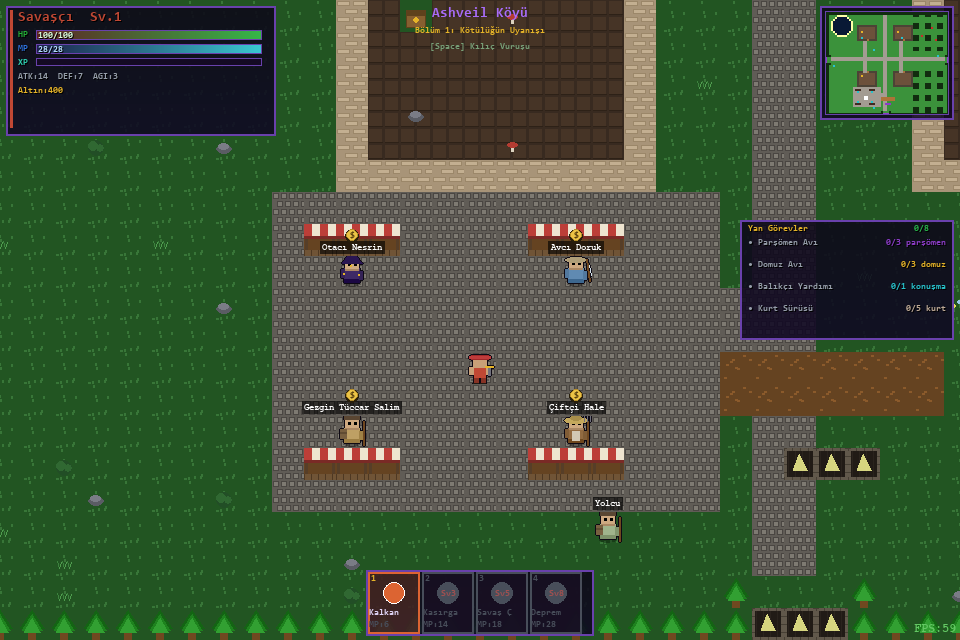
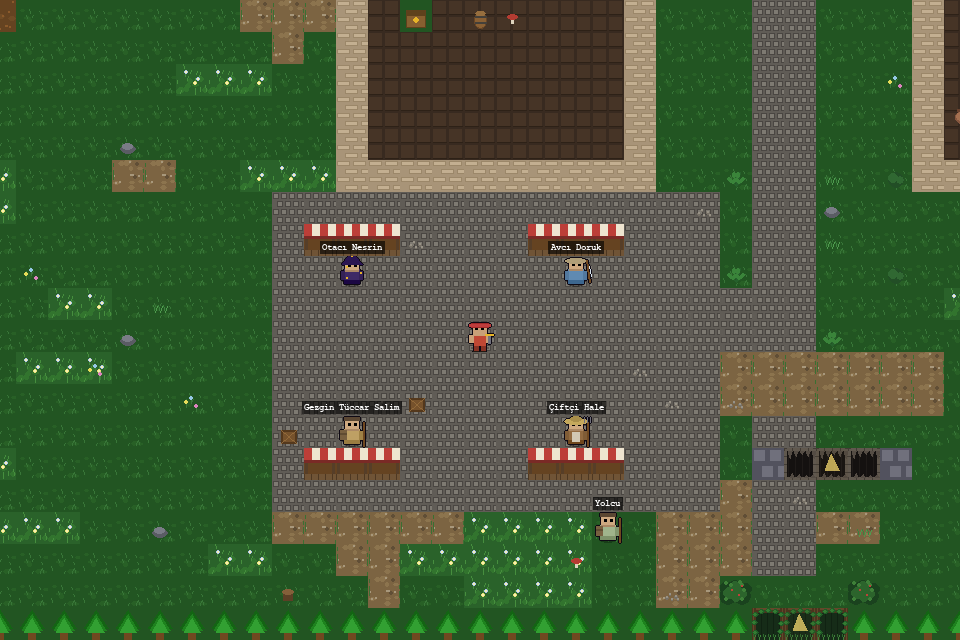
v6.2: README, belge gorselleri ve derleme betikleri guncellendi
README.md bastan yazildi: avlanma/malzeme/yukseltme bolumu, boss
sahneleri, haritalar ve karolar bolumu, olculen onceki/sonraki sayilar.
README.txt'e avlanma, yukseltme ve bes ana boss bolumleri eklendi.

Belge gorselleri: boss sahnesinin iki kademesi, yukseltme tezgahi,
gecit agzi levhasi, kayalik gecit ve bataklik eklendi; pazar,
Koz Vadisi ve baslik ekrani yeni karolarla yenilendi.

build_linux_release.sh hala 5.0 uretiyordu. Iki derleme betigi de
surumu artik pixel_rpg.py'den okuyor; elle yazilmiyor.

GELISTIRME_PLANI.md: v6.2 turu olculerle kayda gecti, karar kaydina
yedi yeni satir eklendi.

diff --git a/tests/test_economy.py b/tests/test_economy.py
@@ -393,6 +393,67 @@ class TestYeniTurler(unittest.TestCase):
                 self.assertLess(abs(v), 15)
 
 
+class TestDukkanTusAkisi(unittest.TestCase):
+    """Gercek tus yolundan: TAB uc sekme arasinda donmeli.
+
+    Birim testler _shop_upgrade()'i dogrudan cagiriyor; bu test oyunu
+    gercekten surerek sekme dolasimini ve E tusunu deniyor.
+    """
+
+    def test_tab_uc_sekme_arasinda_donuyor(self):
+        from harness import Harness
+        h = Harness(MOD, shot_prefix="ekonomi_")
+        goruldu = []
+
+        def dukkani_ac(g):
+            g.player.stats.gold = 900
+            g.player.stats.equipment["weapon"] = "iron_sword"
+            g.player.inventory = ["iron_ore"] * 4
+            g._open_shop(type("N", (), {"name": "npc.demirci_boran"})())
+
+        def kaydet(g):
+            goruldu.append(g.shop_tab)
+
+        script = h.intro() + [
+            h.do(dukkani_ac), h.wait(3), h.do(kaydet),
+            h.key(pygame.K_TAB, 3), h.do(kaydet),
+            h.key(pygame.K_TAB, 3), h.do(kaydet),
+            h.key(pygame.K_TAB, 3), h.do(kaydet),
+            h.wait(2),
+        ]
+        h.run(script)
+        self.assertEqual(goruldu, [0, 1, 2, 0],
+                         "TAB sekmeleri dolasmiyor: %s" % goruldu)
+        self.assertEqual(h.errors, [], "hata: %s" % h.errors)
+
+    def test_e_tusu_yukseltiyor(self):
+        from harness import Harness
+        h = Harness(MOD, shot_prefix="ekonomi2_")
+        sonuc = {}
+
+        def hazirla(g):
+            g.player.stats.gold = 900
+            g.player.stats.equipment["weapon"] = "iron_sword"
+            g.player.inventory = ["iron_ore"] * 4
+            g._open_shop(type("N", (), {"name": "npc.demirci_boran"})())
+            g.shop_tab = 2
+            g.shop_sel = 0
+
+        def oku(g):
+            sonuc["kademe"] = g.player.stats.upgrades.get("iron_sword", 0)
+            sonuc["altin"] = g.player.stats.gold
+
+        script = h.intro() + [
+            h.do(hazirla), h.wait(3),
+            h.key(pygame.K_e, 4),
+            h.do(oku), h.wait(2),
+        ]
+        h.run(script)
+        self.assertEqual(sonuc.get("kademe"), 1, "E tusu yukseltmedi")
+        self.assertEqual(sonuc.get("altin"), 900 - MOD.UPGRADE_COST[0][0])
+        self.assertEqual(h.errors, [], "hata: %s" % h.errors)
+
+
 class TestYeniEsyaCevirileri(unittest.TestCase):
     def test_her_esyanin_adi_bes_dilde_var(self):
         eski = MOD.CFG.data.get("language", "TR")

diff --git a/pixel_rpg.py b/pixel_rpg.py
@@ -1,6 +1,6 @@
 #!/usr/bin/env python3
 """
-KARANLIK TAC'IN LANETI  v6.1  ─  2D Pixel RPG
+KARANLIK TAC'IN LANETI  v6.2  ─  2D Pixel RPG
 pip install pygame  |  python pixel_rpg.py
 
 Kontroller:
@@ -28,7 +28,7 @@ except Exception:
 SW, SH = 960, 640
 TILE    = 32
 FPS     = 60
-VERSION = "6.1"
+VERSION = "6.2"
 TITLE   = "Karanlik Tac'in Laneti"   # ASCII: pencere basligi ve dosya adlari icin
 
 # ─── Dizinler ────────────────────────────────────────────────────

diff --git a/GELISTIRME_PLANI.md b/GELISTIRME_PLANI.md
@@ -819,6 +819,147 @@ Toplam **292 test**.
 | 2026-10-01 | — | **v6.0 yayını:** README, kurulum betikleri, depo temizliği (1977 → 59 dosya), GitHub Release | 247 test |
 | 2026-10-01 | — | **Parşömen görevi bitirilemiyordu:** üç parşömen de dünyada yoktu. Düşman fark etme mesafeleri tür bazına alındı | 12 yeni test; toplam 259 test |
 | 2026-10-01 | — | **v6.1:** "Sör" yazım hatası, beş zorluk seviyesi, oyun içi amblem + uygulama ikonu, açılış animasyonu | 33 yeni test; toplam 292 test |
+| 2026-10-02 | — | **v6.2:** dokuz yeni karo + yedi geçit üslubu, harita denetimi (4 bulgu → 0), farming döngüsü (geri doğum, 15 malzeme, +5 yükseltme), 6 yeni düşman türü, 5 boss kapanış sahnesi, dört kristal | 76 yeni test; toplam 368 test |
+
+
+### ✅ v6.2 — Haritalar, ekonomi, farming ve boss sahneleri (2026-10-02)
+
+Kullanıcının yedi başlıklı geri bildirimi: geçiş yerlerine uygun kareler,
+daha çok eşya/iksir, "çok altın birikiyor ve gelişme çabuk bitiyor —
+farming mantığı", açılış sonrası elips parlamanın kaldırılması, her ana
+boss için animasyon + senaryo, daha çok mob/düşman çeşidi, bütün
+haritaların mantık ve düzen gözden geçirmesi.
+
+#### Önce ölçüm
+
+| Ölçüm | Değer |
+|---|---|
+| Oyunda toplanabilecek toplam altın | **1730** |
+| Mağazadaki eşyaların kaçı sandıktan bedava | **19/22** (en pahalı iki silah dahil) |
+| Toplam düşman / toplam XP / ulaşılan seviye | 90 / 5368 / **10** |
+| Baskın zemin oranı (harabeler, zindan) | **%100** |
+| En büyük tek tip zemin bloğu | **16×16 kare** |
+| Köz Vadisi dekor yoğunluğu | **%0,7** (diğerleri ~%6) |
+| Harita denetimi bulguları | 4 (3 kopuk adacık + 1 tek yönlü geçiş) |
+
+Teşhis: altın birikmesinin sebebi altının çok kazanılması değil,
+**harcanacak yerinin olmaması**. Oyuncu bütün ekipmanı sandıklardan
+bedava buluyordu; dükkân ona zaten elindekini satıyordu. İlerlemenin
+çabuk bitmesinin sebebi de düşmanların bir kez ölmesiydi — farming
+oynanış tercihi değil, yapısal olarak imkânsızdı.
+
+#### Haritalar ve karolar
+
+Dokuz yeni zemin karosu: patika, yeşillik, çalı çit, yosunlu taş,
+döküntü, çakıl, çam, sığ su, çatlak zemin. Tek tip geniş alanlar
+`_zemin_dokusu` ile tohumlu kümeler hâlinde kırılıyor — nokta nokta
+serpiştirme ızgara gibi görünüyordu.
+
+Yedi geçit ağzı üslubu (mağara, yıkık kemer, dağ geçidi, dal kemeri,
+ahşap kapı, buz, kül). Üslup harita başına saklanıyor (`m.gate_kind`);
+çoğu geçit zeminden türetiliyor, ayrıksı olanlar çağrı yerinde
+`style=` ile söyleniyor.
+
+| Ölçüm | Önce | Sonra |
+|---|---|---|
+| Baskın zemin — harabeler | %100 | %66 |
+| Baskın zemin — köy altı zindanı | %100 | %76 |
+| Baskın zemin — kayalık geçit | %99 | %65 |
+| En büyük tek tip blok | 16 kare | ≤12 kare |
+| Harita başına zemin türü | 2–3 | 4–9 |
+| Köz Vadisi dekor yoğunluğu | %0,7 | %6,1 |
+| Harita denetimi bulguları | 4 | **0** |
+
+Denetimin bulduğu ve düzeltilen mantık hataları:
+
+* **misty_swamp → ashveil tek yönlüydü.** Dönüşü yoktu ve varış karesi
+  nehir geçidiyle birebir aynıydı (3,24): iki ayrı bölge tek noktaya
+  boşalıyor, birinden geri dönülemiyordu. Kaldırıldı; yerine çift yönlü
+  **misty_swamp ↔ south_meadow** kondu. Dünya artık halka:
+  Ashveil → Çayır → Bataklık → Orman → Ashveil.
+* **Kütüphanenin iki geçidi de aynı yere çıkıyordu** — west_river (26,3)
+  ve (26,4), yani nehrin içine. Üstelik geçit koridoru kuzey kenardan
+  köprülere kadar nehri bölen bir çim şerit kazıyordu. Tek kapıya
+  indirildi ve batı kıyısına taşındı.
+* **Üç varış karesi yürünmezdi** (RUINS_WALL, STONE, RIVER); oyuncu
+  kaydırılıyordu. Otuz geçidin otuzu artık sapma 0.
+* **Bataklıkta üç kum adacığı** (3+2+2 kare) suyun ortasında
+  ulaşılamaz kalıyordu: görünüyor ama basılamıyordu. Sığ su köprüsüyle
+  bağlandı; bölge sayısı 5 → 1.
+* **Kayalık Geçit'in tabanı toprak**tı, kırmızımsı düz bir ova gibi
+  duruyordu; çakıl yapıldı, kenarlara çam kümeleri kondu.
+* **Köz Vadisi ve Buz Mağarası çıplaktı**: `_PROPS_BY_TILE`'da kül ve
+  buz karolarının kaydı yoktu. On beş yeni dekor eklendi.
+
+Ekran görüntüsünden çıkan iki düzeltme: yosunlu TAŞ karosu açık arazide
+gri levhalar gibi duruyordu (orman ve bataklıktan çıkarıldı); üç karelik
+geçit ağzının üçünde birden yanıp sönen ok kapının çizimini bastırıyordu
+(ok yalnızca ağzın ortasında).
+
+#### Ekonomi ve farming
+
+| | |
+|---|---|
+| Geri doğum | Boss dışı düşmanlar 60 sn sonra kendi karelerinde. Oyuncu 14 kareden yakınsa bekler. Sayaç mutlak kare sayısıyla tutuluyor, başka haritadayken de işliyor |
+| Malzeme | 15 adet, 8–44 altın, %45 ihtimalle düşüyor. Avlanmanın asıl geliri |
+| Yükseltme | Demircide +5'e kadar; altın + malzeme. Tek parça sonuna kadar 1830 altın + 20 malzeme |
+| Üst kademe | 690–860 altınlık 11 parça yalnızca satın alınır |
+
+| Ölçüm | Önce | Sonra |
+|---|---|---|
+| Sandıktan çıkan en pahalı ekipman | 280 altın | **195 altın** |
+| Yalnızca satın alınabilen ekipman | 3 | **23** |
+| Bir temizlikte toplanan altın | 1730 | **3083** |
+| Harcanacak hedef | — | **12.470 altın + 100 malzeme** |
+| Eşya / ekipman / düşman türü / düşman | 10 / 18 / 10 / 90 | **34 / 39 / 16 / 123** |
+
+**Seviye eğrisi:** tavan 30 kondu ama eşik her seviyede 1,55 ile
+çarpıldığı için 30. seviye **29.581.821 XP** istiyordu — ulaşılamaz bir
+tavan tavan değildir. İlk yedi seviye aynı hızda bırakıldı (hikâyenin
+temposu bozulmasın), sonrası 1,15'e yumuşatıldı: **149.762 XP**.
+
+Altı yeni düşman türü: yarasa (hızlı), dev örümcek (ağ atar), haydut
+(yol keser), hayalet (menzilli gölge), ağaç kök (çok dayanıklı, çok
+yavaş), köz cini (ateş, ürkek). Düşman hızı artık `SPEED_MOD`
+tablosunda, AI döngüsüne elle yazılmış iki `if` değil.
+
+#### Boss sahneleri
+
+Her ana boss düştüğünde: silüet titrer (26. kare), üzerinde çatlaklar
+koşar, dağılıp karanlık zerrelere dönüşür (72), yerinde kristal belirir
+(118), anlatı gelir (154 — 2,6 saniye). Herhangi bir tuşla geçilir.
+
+Hikâyede dört kristalden söz ediliyordu, oyunda ikisi vardı. **Köz Devi**
+(Köz Vadisi, Ateş Kristali) ve **Sayfa Muhafızı** (Gizemli Kütüphane,
+Işık Kristali) eklendi. İkisi de isteğe bağlı: ana zinciri kilitlemiyor,
+eski kayıtları bozmuyor, ama kapanışa sayfa ekliyor ve unvanı yükseltiyor.
+
+#### Testlerin yakaladıkları
+
+| Kusur | Nasıl bulundu |
+|---|---|
+| Testler oyuncunun kendi `settings.json`'ını okuyordu | Zorluk "Zor" seçiliyken ödül ×1,15 oluyor; yan görev ödülünü ölçen test yalnızca bu makinede düşüyordu |
+| Yarasa 1. seviyede **tek vuruşta** ölüyordu | `test_nothing_dies_in_two_hits` (can çarpanı 0,70 → 1,80) |
+| Ağaç kök golemden inatçı kovalıyordu ama on kat yavaş | `test_the_golem_gives_up_last` |
+| En üst kademedeki parça hâlâ "(+1)" kazanç vaat ediyordu | Ekran görüntüsü |
+| `BLEND_RGBA_ADD` alfayı yok sayıp RGB ekliyor | Kristalin halesi masif bir diske dönüşmüştü |
+
+Yeni test dosyaları: `test_tiles.py` (19), `test_economy.py` (35),
+`test_boss.py` (22). Regresyon bekçilerinin **bozuk hâle karşı ateş
+ettiği tek tek doğrulandı** — zemin dokusu kapatılınca, ASH dekor kaydı
+silinince, köprü kaldırılınca, tek yönlü kısayol geri konunca, eski XP
+eğrisi geri gelince ve 280 altınlık silah sandığa konunca.
+
+**368 test geçiyor.** Kare maliyeti 1,44 ms (~697 FPS tavan) — düşman
+sayısı %37 arttığı hâlde pay bol.
+
+#### Yan düzeltmeler
+
+* `build_linux_release.sh` hâlâ **5.0** üretiyordu; iki derleme betiği de
+  sürümü artık `pixel_rpg.py`'den okuyor, elle yazılmıyor.
+* Açılış animasyonundan sonra başlık ekranındaki elips hale kaldırıldı,
+  yerine hafif bir süzülme kondu (kullanıcı isteği).
+
 
 ---
 
@@ -835,3 +976,10 @@ Toplam **292 test**.
 | Yuva/eşya listeleri tek kaynaktan türetiliyor | `EQUIP_SLOTS` elle kopyalandığı için yuva eklenince `PlayerStats` güncellenmeden kalmıştı |
 | Mini harita renkleri doku ortalamasından | Elle tutulan bir renk tablosu, doku değiştiğinde sessizce yanlış kalır. Ortalama almak tabloyu gereksiz kılıyor; okunabilirlik için yalnız parlaklık ayarı uygulanıyor |
 | `symtable` ile tanımsız isim taraması | `fT_` gibi yazım hataları sözdizimi denetiminden geçiyor; ancak o satır çalışınca patlıyor. Tarama, oynamadan yakalıyor |
+| Zorluk ve element çarpanları hasar HESAPLANIRKEN uygulanıyor | Düşman canlarına dokunulsaydı kayıtlı oyun başka zorlukta yüklendiğinde eski değerlerle devam ederdi |
+| Geri doğum sayacı mutlak kare sayısı (`self.tick`) | Her haritanın düşmanını her karede dolaşmak israf; mutlak zaman sayesinde başka haritadayken de süre işliyor |
+| Yükseltme "herhangi bir malzeme" istiyor | Belirli malzeme istemek oyuncuyu tek bir düşmanı çiftlemeye zorlardı; değerli malzeme satılığa, ucuzu yükseltmeye kalıyor |
+| Üst kademe ekipman sandıktan çıkmıyor | Ölçüm: mağazadaki 22 eşyanın 19'u bedava bulunuyordu, dükkân anlamsızdı |
+| Yeni kristaller isteğe bağlı | Ana zinciri kilitlemek eski kayıtları ve kristali almayan oyuncuyu takardı |
+| Derleme betikleri sürümü kaynaktan okuyor | Elle yazılınca kayıyordu: oyun 6.1'deyken Linux betiği hâlâ 5.0 üretiyordu |
+| Testler ayarları varsayılana sabitliyor | Testler oyuncunun `settings.json`'ını okuyordu; zorluk "Zor" seçiliyken ödül testi yalnızca o makinede düşüyordu |
